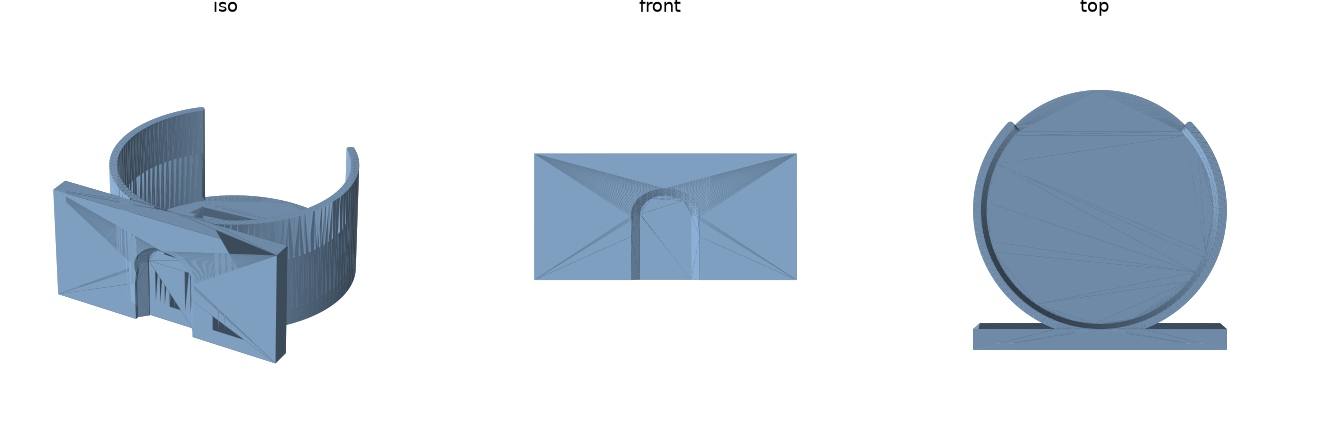
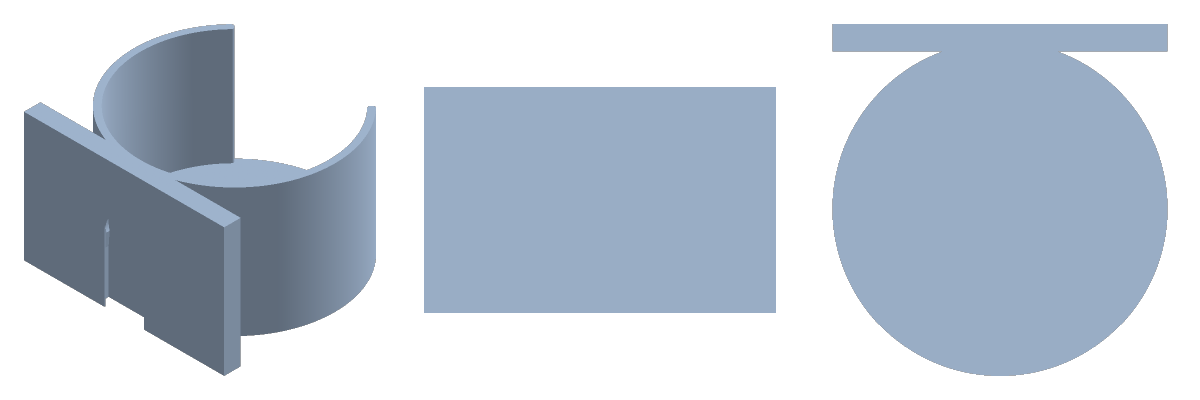
fix(cylindrical): flip Multiconnect slot depth profile + add retention/profile contracts (pst-p07j) (#90)
The v3 Multiconnect slot pocket was carved inverted through the plate
thickness (print-verified by Sean on PR #82): the WIDE end of the dovetail
sat at the open (wall-facing) surface and the NARROW end deep inside, so a
seated round head pulled straight off the wall — nothing retained it.

Root cause: slot_cutters() placed the library SnapInSlotCutter as
`Rot(0,180,0) * SnapInSlotCutter(rotation=(-90,0,0))`, mapping the cutter's
wide (local z=0) end to the -Y mount face and the narrow end inward. The same
transform fed mount_fixtures()'s seated-head pose, so the PR #88 mount
contracts validated a head seated in an inverted pocket — none of (a)-(d) is
sensitive to the depth profile.

Fix (depth axis only; slide opening stays at -Z, width stays along X, 100%
library geometry):
- slot_cutters(): `Pos(x, mount_y + POCKET_DEPTH, z_seat) *
  SnapInSlotCutter(rotation=(90,0,0))` — anchors the wide (retention) end at
  the pocket back and the narrow lip at the mount face. Proven identical (0.0
  mm^3 sym-diff) to a mirror of the old placement about the pocket mid-depth;
  a proper rigid transform, not a reflection. Slab probe on holder(d=66,h=40)
  at the seat: void width 15.3 mm at 0.4 mm in, 20.3 mm at 3.75 mm deep
  (was 20.3 -> 15.4, inverted).
- mount_fixtures(): seated-head pose flipped to match (wide pad at the pocket
  back); adds face_normal=(0,-1,0). Contracts (c) seat-clearance and (d)
  entry-travel still pass.
[…]

diff --git a/build123d/tests/mount_contracts.py b/build123d/tests/mount_contracts.py
@@ -19,7 +19,7 @@ auto-parametrizes ``verify(mount_type, part, fx)`` over every registered
 model tagged with a mount — like the export/watertight suite, a new model
 inherits the whole contract for free.
 
-The multiconnect-slot contract asserts four things:
+The multiconnect-slot contract asserts six things:
   (a) APERTURE     — the slot void breaks through the plate's BOTTOM face, so
                      a wall head can actually enter (the v2 sealed-pocket bug).
   (b) ORIENTATION  — the channel opening faces -Z (bottom), never the top
@@ -29,6 +29,13 @@ The multiconnect-slot contract asserts four things:
   (d) ENTRY TRAVEL — that RoundHead swept from below the plate up to the seat
                      never collides with the model (a continuous insertion
                      path exists, not merely a reachable seat).
+  (e) RETENTION    — a seated RoundHead pulled straight off the wall (along the
+                     mount face normal) FOULS the plate: the narrow lip holds
+                     the head's wide flange (the v3 print bug — the pocket was
+                     carved inverted, so the head pulled straight off and (a)-(d)
+                     all passed since none is sensitive to the depth profile).
+  (f) PROFILE      — the slot void is NARROW at the open (mount) face and WIDE
+                     inside, the dovetail lip (e) relies on (inverted on v3).
 
 Adding a new mount contract
 ---------------------------
@@ -57,6 +64,13 @@ _SOLID_MIN = 0.5      # mm^3: occupied volume proving a small probe sits in soli
 _APERTURE_MIN = 10.0  # mm^3: cutter material the slot must remove at the bottom face
 _TRAVEL_TOL = 2.0     # mm^3: entry-travel grazing tolerance (intended snap-notch contact)
 _SLAB = 1.0           # mm: thickness of the face-probe slabs
+_RETENTION_MIN = 1.0  # mm^3: a seated head pulled off the wall must foul the plate
+                      #        by at least this — the lip retains the head's flange
+_PROFILE_MIN_DELTA = 3.0  # mm: min (deep width - surface width) proving the dovetail
+                          #     is narrow at the open face and wide inside (retention)
+_PULL_DISTS = (0.5, 1.0, 2.0)  # mm: off-wall pull distances the head must be held at
+_SURFACE_IN = 0.4     # mm: depth just inside the mount face for the surface width probe
+_DEEP_IN = 3.75       # mm: depth near the pocket back for the deep width probe
 
 _CENTER3 = (Align.CENTER, Align.CENTER, Align.CENTER)
 
@@ -87,6 +101,30 @@ def _require_z_entry(fx: MountFixtures) -> None:
             f"multiconnect-slot contract currently assumes entry_axis=(0,0,1), "
             f"got {fx.entry_axis} — generalize the face/travel probes to extend it"
         )
+
+
+def _require_y_face(fx: MountFixtures) -> None:
+    ax = tuple(round(a, 6) for a in fx.face_normal)
+    if ax != (0.0, -1.0, 0.0):
+        raise AssertionError(
+            f"multiconnect-slot contract currently assumes face_normal=(0,-1,0), "
+            f"got {fx.face_normal} — generalize the retention/profile probes to extend it"
+        )
+
+
+def _cutter_x_width(cutter: Part, y: float, z: float) -> float:
+    """Width across X of a cutter (the slot void) in a thin Y*Z slab.
+
+    With entry_axis=+Z and face_normal=-Y the dovetail taper runs along Y and
+    the width that captures/releases the head runs along X, so this measures
+    the pocket's clear span at a given depth (y) and the seat height (z)."""
+    slab = Pos(0.0, y, z) * Box(1000.0, 0.2, 0.4, align=_CENTER3)
+    inter = cutter.intersect(slab)
+    solids = list(inter.solids()) if inter is not None else []
+    if not solids:
+        return 0.0
+    xs = [v.X for s in solids for v in s.vertices()]
+    return max(xs) - min(xs)
 
 
 # --- multiconnect-slot assertions ----------------------------------------
@@ -180,12 +218,62 @@ def assert_entry_travel(part: Part, fx: MountFixtures) -> None:
             z += 1.0
 
 
+def assert_retention(part: Part, fx: MountFixtures) -> None:
+    """(e) A seated RoundHead pulled straight off the wall (along the mount
+    face normal) must FOUL the plate — the narrow lip holds the head's wide
+    flange. This is the retention the v3 print lacked: with the pocket carved
+    inverted (wide at the open surface) the head pulled straight off and the
+    depth-blind checks (a)-(d) all passed anyway. Model-agnostic: fixtures
+    only."""
+    _require_y_face(fx)
+    nx, ny, nz = fx.face_normal
+    for loc in fx.seat_locs:
+        head = loc * RoundHead()
+        assert head.volume > 100.0, "sanity: the library RoundHead is a real solid"
+        for dist in _PULL_DISTS:
+            pulled = Pos(nx * dist, ny * dist, nz * dist) * head
+            r = _residual_vol(part, pulled)
+            assert r > _RETENTION_MIN, (
+                f"seated head at x={loc.position.X:.1f} pulls off the wall: "
+                f"displaced {dist} mm along the mount normal it fouls only "
+                f"{r:.3f} mm^3 (need > {_RETENTION_MIN}) — nothing retains the "
+                "head (the pocket is likely inverted: wide at the open face)"
+            )
+
+
+def assert_profile(part: Part, fx: MountFixtures) -> None:
+    """(f) The slot void must be NARROW at the open (mount) face and WIDE
+    inside — the dovetail lip that (e) relies on. Measures the pocket's X span
+    just inside the mount face and near its back; the deep span must exceed the
+    surface span by >= _PROFILE_MIN_DELTA. Fails on the inverted v3 pocket
+    (wide surface, narrow back → negative delta)."""
+    _require_z_entry(fx)
+    _require_y_face(fx)
+    mount_face_y = part.bounding_box().min.Y   # the -Y board face
+    for cutter, loc in zip(fx.cutters, fx.seat_locs):
+        z = loc.position.Z
+        surface = _cutter_x_width(cutter, mount_face_y + _SURFACE_IN, z)
+        deep = _cutter_x_width(cutter, mount_face_y + _DEEP_IN, z)
+        assert surface > 0.0 and deep > 0.0, (
+            f"slot at x={loc.position.X:.1f}: empty width probe "
+            f"(surface={surface:.2f}, deep={deep:.2f}) — pocket not where expected"
+        )
+        assert deep - surface >= _PROFILE_MIN_DELTA, (
+            f"slot at x={loc.position.X:.1f} depth profile is not retentive: "
+            f"width is {surface:.2f} mm at the open face vs {deep:.2f} mm deep "
+            f"(need deep - surface >= {_PROFILE_MIN_DELTA}) — the dovetail must "
+            "be narrow at the surface and wide inside, not inverted"
+        )
+
+
 def verify_multiconnect_slot(part: Part, fx: MountFixtures) -> None:
     """Run every multiconnect-slot assertion against a built model."""
     assert_aperture(part, fx)
     assert_orientation(part, fx)
     assert_seat_clearance(part, fx)
     assert_entry_travel(part, fx)
+    assert_retention(part, fx)
+    assert_profile(part, fx)
 
 
 # mount type -> contract. Every KNOWN_MOUNTS entry must appear here.

diff --git a/build123d/holders/cylindrical.py b/build123d/holders/cylindrical.py
@@ -104,6 +104,14 @@ SLOT_PITCH = OPEN_GRID_UNIT_SIZE  # 28 mm, the library's Multiconnect spacing
 _SLOT_HALF_WIDTH = 16.75   # mm, notch reach either side of a slot centre
 _SLOT_BELOW_SEAT = 10.15   # mm, slot body on the closed (seat) side
 _SLOT_ABOVE_SEAT = 28.0    # mm, slide travel on the OPEN (entry) side
+# Pocket depth along the dovetail taper axis (narrow lip -> wide flange), i.e.
+# the library slot's clearanced z0..z3: bottom_height 1 + bottom clearance
+# 0.212132 + taper 2.5 + top_height 0.5 + top clearance -0.062132 = 4.15 mm.
+# The pocket is anchored one POCKET_DEPTH inside the -Y mount face so its WIDE
+# (retention) end lands at the pocket back and its NARROW lip at the mount
+# face — the head's wide pad seats BEHIND the lip (bug pst-p07j: the pocket
+# was carved inverted, wide at the open surface, so nothing retained the head).
+POCKET_DEPTH = 4.15
 _SLOT_EDGE_MARGIN = 3.0    # mm, solid plate margin around the slot envelope
 # The channel entry (slide opening) must cut THROUGH the plate's bottom
 # edge so a wall head can enter — a sealed pocket has no way in. Position
@@ -230,20 +238,23 @@ def slot_cutters(r_in: float, r_out: float, h: float) -> list[Part]:
     """The library Multiconnect slot cutters, positioned on the back plate.
 
     Each is ``opengrid.multiconnect.SnapInSlotCutter`` at rotation
-    (-90, 0, 0) with an added 180-degree spin about Y (``Rot(0, 180, 0)``):
-    pocket depth -> +Y (into the plate from the -Y mount face), slide -> -Z
-    (opening at the plate BOTTOM), width -> X. The base (-90, 0, 0) cutter
-    opens at +Z (top) with the pocket at +Y; the Y-spin flips the slide to
-    -Z while keeping the pocket on +Y (verified by measuring the cutter
-    bbox: base z in [-10.15, 28], y in [0, 4.15]; spun z in [-28, 10.15],
-    y in [0, 4.15]). The holder lowers DOWN onto wall-mounted round heads:
-    each head enters the aperture at the plate's bottom edge and rides up
-    to the seat, where the snap-in side notches lock it. 100% library
-    geometry - no bespoke slot solids.
+    (90, 0, 0), anchored at the pocket BACK (``mount_y + POCKET_DEPTH``):
+    the (90, 0, 0) spin lays the dovetail taper along -Y with its WIDE
+    (retention) end toward -Y and points the slide opening at -Z (the plate
+    BOTTOM); width -> X. Anchoring the wide end at the pocket back puts the
+    NARROW lip at the -Y mount face and the wide flange deep inside, so a
+    seated round head's wide pad sits BEHIND the narrow lip and cannot pull
+    straight off the wall (bug pst-p07j, print-verified: the pocket was
+    previously carved INVERTED — ``Rot(0, 180, 0) * SnapInSlotCutter(
+    rotation=(-90, 0, 0))`` put the wide end at the open surface and the
+    narrow end inside, so nothing retained the head). The holder lowers DOWN
+    onto wall-mounted round heads: each head enters the aperture at the
+    plate's bottom edge and rides up to the seat, where the snap-in side
+    notches lock it. 100% library geometry - no bespoke slot solids.
     """
     _w, _ph, mount_y, z_seat, n_slots = _plate_geometry(r_in, r_out, h)
     return [
-        Pos(x, mount_y, z_seat) * Rot(0, 180, 0) * SnapInSlotCutter(rotation=(-90, 0, 0))
+        Pos(x, mount_y + POCKET_DEPTH, z_seat) * SnapInSlotCutter(rotation=(90, 0, 0))
         for x in _slot_x_positions(n_slots)
     ]
 
@@ -349,9 +360,14 @@ def mount_fixtures(mount_type: str, values: dict) -> MountFixtures:
     plus the world pose of a seated library ``RoundHead`` at each slot.
 
     A seated head is ``seat_loc * RoundHead()`` — the exact pose the cutter's
-    own internal round-head cutter occupies (``Pos(x, mount_y, z_seat)`` then
-    the ``Rot(0, 180, 0) * Rot(-90, 0, 0)`` orientation that flips the slide
-    opening to -Z while keeping the pocket on +Y; see ``slot_cutters``).
+    own internal round-head cutter occupies: ``Pos(x, mount_y + POCKET_DEPTH,
+    z_seat) * Rot(90, 0, 0)``, matching ``slot_cutters``. The (90, 0, 0) spin
+    lays the head's dovetail along -Y with its WIDE pad toward -Y; anchoring
+    at the pocket back (``mount_y + POCKET_DEPTH``) seats that wide pad at the
+    pocket back, BEHIND the narrow lip at the mount face (bug pst-p07j — the
+    seated pose was previously the inverted ``Rot(0, 180, 0) * Rot(-90, 0, 0)``
+    pose, wide pad at the open surface, which the depth-blind contracts could
+    not catch; the retention/profile contracts now can).
     """
     if mount_type != "multiconnect-slot":
         raise ValueError(
@@ -365,13 +381,14 @@ def mount_fixtures(mount_type: str, values: dict) -> MountFixtures:
     r_out = r_in + wall
     _w, _ph, mount_y, z_seat, n_slots = _plate_geometry(r_in, r_out, h)
     seat_locs = [
-        Pos(x, mount_y, z_seat) * Rot(0, 180, 0) * Rot(-90, 0, 0)
+        Pos(x, mount_y + POCKET_DEPTH, z_seat) * Rot(90, 0, 0)
         for x in _slot_x_positions(n_slots)
     ]
     return MountFixtures(
         cutters=slot_cutters(r_in, r_out, h),
         seat_locs=seat_locs,
         entry_axis=(0.0, 0.0, 1.0),
+        face_normal=(0.0, -1.0, 0.0),
     )
 
 

diff --git a/build123d/tests/test_mount_contracts.py b/build123d/tests/test_mount_contracts.py
@@ -12,13 +12,15 @@ from pathlib import Path
 sys.path.insert(0, str(Path(__file__).resolve().parent.parent))
 
 import pytest  # noqa: E402
-from build123d import Align, Box, Pos  # noqa: E402
+from build123d import Align, Box, Pos, Rotation as Rot  # noqa: E402
 from opengrid.multiconnect import SnapInSlotCutter  # noqa: E402
 
 from holders.registry import KNOWN_MOUNTS, MountFixtures, all_models  # noqa: E402
 from tests.mount_contracts import (  # noqa: E402
     CONTRACTS,
     assert_aperture,
+    assert_profile,
+    assert_retention,
     resolve_fixtures,
     verify,
 )
@@ -90,3 +92,59 @@ def test_negative_sealed_pocket_fails_aperture():
     part, fx = _sealed_pocket_fixture()
     with pytest.raises(AssertionError, match="aperture"):
         assert_aperture(part, fx)
+
+
+def _inverted_pocket_fixture():
+    """The v3 print defect reproduced from library geometry (bug pst-p07j): the
+    SnapInSlotCutter placed with the OLD transform — ``Rot(0, 180, 0) *
+    SnapInSlotCutter(rotation=(-90, 0, 0))`` anchored AT the mount face — so
+    the dovetail comes out WIDE at the open surface and NARROW inside. Nothing
+    retains the head: it pulls straight off the wall. The aperture/orientation/
+    seat/travel checks (a)-(d) all PASS on this (the bug shipped and passed CI);
+    the retention (e) and profile (f) checks must REJECT it. Returns (part, fx)
+    with the same dims as the real spray-can holder (mount_y=-39.4, z_seat=26)."""
+    mount_y, z_seat = -39.4, 26.0
+    plate = Pos(0.0, mount_y, 0.0) * Box(
+        90.0, 6.4, 60.0, align=(Align.CENTER, Align.MIN, Align.MIN)
+    )
+    cutter = Pos(0.0, mount_y, z_seat) * Rot(0, 180, 0) * SnapInSlotCutter(rotation=(-90, 0, 0))
+    part = (plate - cutter).clean()
+    seat = Pos(0.0, mount_y, z_seat) * Rot(0, 180, 0) * Rot(-90, 0, 0)
+    fx = MountFixtures(
+        cutters=[cutter], seat_locs=[seat],
+        entry_axis=(0.0, 0.0, 1.0), face_normal=(0.0, -1.0, 0.0),
+    )
+    return part, fx
+
+
+def test_negative_inverted_pocket_fails_retention():
+    """The v3 inverted pocket MUST fail the retention check — the head pulls
+    straight off the wall. Proves (e) catches the exact print-verified defect."""
+    part, fx = _inverted_pocket_fixture()
+    with pytest.raises(AssertionError, match="retains|pulls off"):
+        assert_retention(part, fx)
+
+
+def test_negative_inverted_pocket_fails_profile():
+    """The v3 inverted pocket MUST fail the profile check — wide at the open
+    face, narrow inside. Proves (f) catches the exact print-verified defect."""
+    part, fx = _inverted_pocket_fixture()
+    with pytest.raises(AssertionError, match="inverted|profile"):
+        assert_profile(part, fx)
+
+
+def test_negative_inverted_pocket_still_passes_a_through_d():
+    """The inverted pocket passes aperture/orientation/seat/travel — that is
+    WHY the v3 bug shipped, and why (e)/(f) had to be added. If any of (a)-(d)
+    starts failing here, good, but the point stands: they were depth-blind."""
+    from tests.mount_contracts import (
+        assert_aperture as _ap,
+        assert_orientation as _or,
+        assert_seat_clearance as _sc,
+        assert_entry_travel as _et,
+    )
+    part, fx = _inverted_pocket_fixture()
+    _ap(part, fx)
+    _or(part, fx)
+    _sc(part, fx)
+    _et(part, fx)

diff --git a/build123d/holders/registry.py b/build123d/holders/registry.py
@@ -169,11 +169,20 @@ class MountFixtures:
     entry_axis: unit direction a wall head travels as the holder lowers onto
                 it and the head rides to the seat. The channel opening faces
                 ``-entry_axis``. Currently the contracts assume ``(0, 0, 1)``.
+    face_normal: outward unit normal of the mount (board-facing) face — the
+                direction a seated head would travel to pull straight off the
+                wall. The retention contract drives each seated head along
+                this axis and requires it to FOUL the plate (the narrow lip
+                holds the head's wide flange). Distinct from ``entry_axis``:
+                the head slides IN along ``+entry_axis`` but is retained
+                across ``face_normal`` (the dovetail taper axis). Defaults to
+                ``(0, -1, 0)`` (the -Y board side).
     """
 
     cutters: list[Part]
     seat_locs: list[Location]
     entry_axis: tuple[float, float, float] = (0.0, 0.0, 1.0)
+    face_normal: tuple[float, float, float] = (0.0, -1.0, 0.0)
 
 
 @dataclass(frozen=True)
